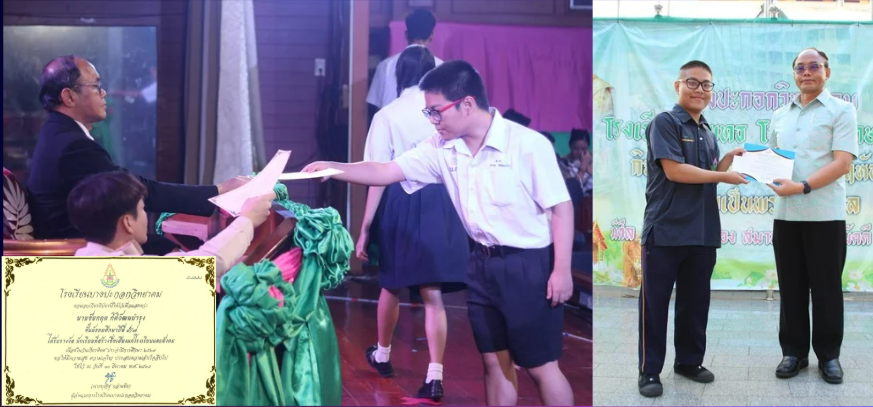
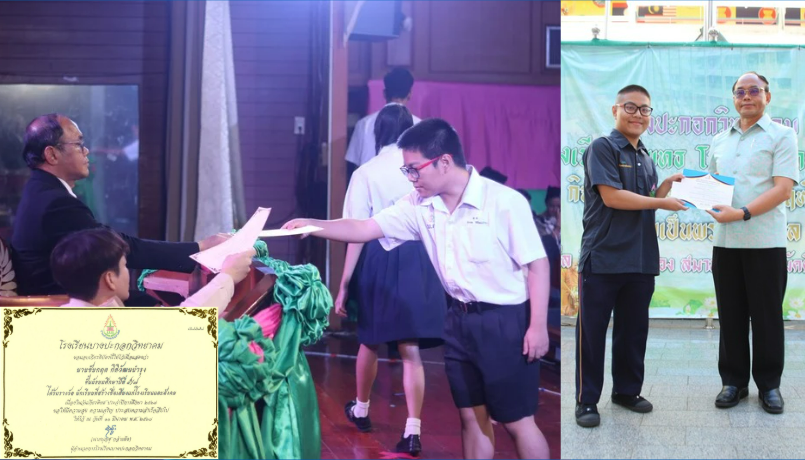
final update
final update

diff --git a/index.html b/index.html
@@ -150,7 +150,7 @@
             An IoT fire-alert system detecting gas and flame, sending LINE alerts within 3 seconds.  1st Runner-Up at RMUTK 2025.
           </p>
           <div class="work-links">
-            <a href="https://youtu.be/yourvideo" target="_blank" class="work-button">Demo Video</a>
+            <a href="https://drive.google.com/file/d/1dTml5-ZSRSt6UaflNyXwrneiEQJ53DQR/view?usp=sharing" target="_blank" class="work-button">Demo Video</a>
           </div>
           <ul class="work-skills">
             <li>🤖 IoT & Robotics</li>
@@ -243,7 +243,7 @@
             A real-time Rock–Paper–Scissors game using Python & OpenCV for hand-gesture recognition.
           </p>
           <div class="work-links">
-            <a href="https://github.com/yourusername/rps-opencv" target="_blank" class="work-button">Demo Video</a>
+            <a href="https://drive.google.com/file/d/1PvtoXyw8CB6QcqTqEURWm7EAnn1lcRuj/view" target="_blank" class="work-button">Demo Video</a>
           </div>
           <ul class="work-skills">
             <li>💻 Programming</li>
@@ -327,12 +327,21 @@
     <section id="achievements" class="projects">
       <h2 class="section-title" data-heading="Achievements">My Achievements</h2>
       <div class="cards-grid">
+        <!-- ODOS Program 2025 -->
+        <div class="card">
+          <img src="images/achievements/ODOS-2025.png" alt="ODOS Program 2025" />
+          <div class="card-content">
+            <h3>ODOS Program 2025 - Thailand Representative Sookmyung University, South Korea</h3>
+            <p>Successfully passed the English and Computer Skills Examination at the national level, earning selection as Thailand's representative for the ODOS Program at Sookmyung University, South Korea.</p>
+          </div>
+        </div>
+          
          <!-- RMUTK IoT Award 2025 -->
         <div class="card">
           <img src="images/achievements/iot-project-2025.png" alt="IoT Project 2025" />
           <div class="card-content">
             <h3>1st Runner-Up – RMUTK IoT Award 2025</h3>
-            <p>Recognized for Smart4Alert, an Arduino-based fire-alert IoT system.</p>
+            <p>Awarded 1st Runner-Up for Smart4Alert, an Arduino and NodeMCU based fire‑safety IoT system that detects gas and flame and issues LINE alerts within seconds, proving practical, life‑protecting innovation.</p>
           </div>
         </div>
         <!-- RTARF Cybersecurity CTF Top 16 -->
@@ -340,7 +349,7 @@
           <img src="images/achievements/ctf-top16-2023.png" alt="CTF Top16 2023" />
           <div class="card-content">
             <h3>Top 16 – RTARF Cybersecurity CTF</h3>
-            <p>Placed in the Top 16 at the Royal Thai Armed Forces Cybersecurity Bootcamp CTF.</p>
+            <p>Achieved Top 16 at the Royal Thai Armed Forces Youth Cybersecurity Bootcamp CTF, applying network defense and ethical hacking fundamentals to solve challenges under pressure through teamwork and disciplined methodology.</p>
           </div>
         </div>
         <!-- BPK Honor Day 2024 -->
@@ -348,7 +357,7 @@
           <img src="images/achievements/bpk-honor-2024.png" alt="BPK Honor Day 2024" />
           <div class="card-content">
             <h3>Certificate of BPK Honor Day 2024</h3>
-            <p>Honored for representing my school with dedication during the 2024 ceremony.</p>
+            <p>Recognized by Bangpakok Wittayakom on BPK Honor Day for representing the school in technology initiatives and community service, demonstrating reliability, positive attitude, and leadership that inspire younger students toward STEM.</p>
           </div>
         </div>
         <!-- English Genius Test 2024 -->
@@ -356,7 +365,7 @@
           <img src="images/achievements/english-genius-2024.png" alt="English Genius Test 2024" />
           <div class="card-content">
             <h3>1st Place – English Genius Test 2024</h3>
-            <p>Top regional score achieved on November 1, 2024, showcasing strong English proficiency.</p>
+            <p>Earned regional 1st place in the English Genius Test, demonstrating C2‑level proficiency and communication skills that support international study, technical writing, and effective collaboration across multicultural project environments.</p>
           </div>
         </div>
         <!-- Outstanding Youth Ambassador 2023 -->

diff --git a/Modern_tower_hanoi.html b/Modern_tower_hanoi.html
@@ -66,10 +66,6 @@
         #five ~ label {
             z-index: 2;
         }
-        #six ~ input,
-        #six ~ label {
-            z-index: 1;
-        }
 
         input#zero {
             z-index: 7;
@@ -193,10 +189,6 @@
             width: 26vmin;
             background: linear-gradient(135deg, #48dbfb, #0abde3, #006ba6);
         }
-        .six {
-            width: 30vmin;
-            background: linear-gradient(135deg, #ff9ff3, #f368e0, #e84393);
-        }
 
         /* Spacers/Separators */
         .spacer {
@@ -267,7 +259,7 @@
             50% { transform: scale(1.05); }
         }
         
-        input:nth-child(6n + 4):checked ~ input:nth-child(6n + 4):checked ~ input:nth-child(6n + 4):checked ~ input:nth-child(6n + 4):checked ~ input:nth-child(6n + 4):checked ~ input:nth-child(6n + 4):checked ~ .win {
+        input:nth-child(6n + 4):checked ~ input:nth-child(6n + 4):checked ~ input:nth-child(6n + 4):checked ~ input:nth-child(6n + 4):checked ~ input:nth-child(6n + 4):checked ~ .win {
             opacity: 1;
             pointer-events: initial;
         }
@@ -415,13 +407,6 @@
         <input name="five" type="radio" tabindex="-1">
         <label for="five"></label>
         <div class="disc five"></div>
-
-        <input id="six" type="text" tabindex="-1" readonly>
-        <input name="six" type="radio" tabindex="-1" checked>
-        <input name="six" type="radio" tabindex="-1">
-        <input name="six" type="radio" tabindex="-1">
-        <label for="six"></label>
-        <div class="disc six"></div>
 
         <input id="zero" type="text" tabindex="-1" readonly>
 
